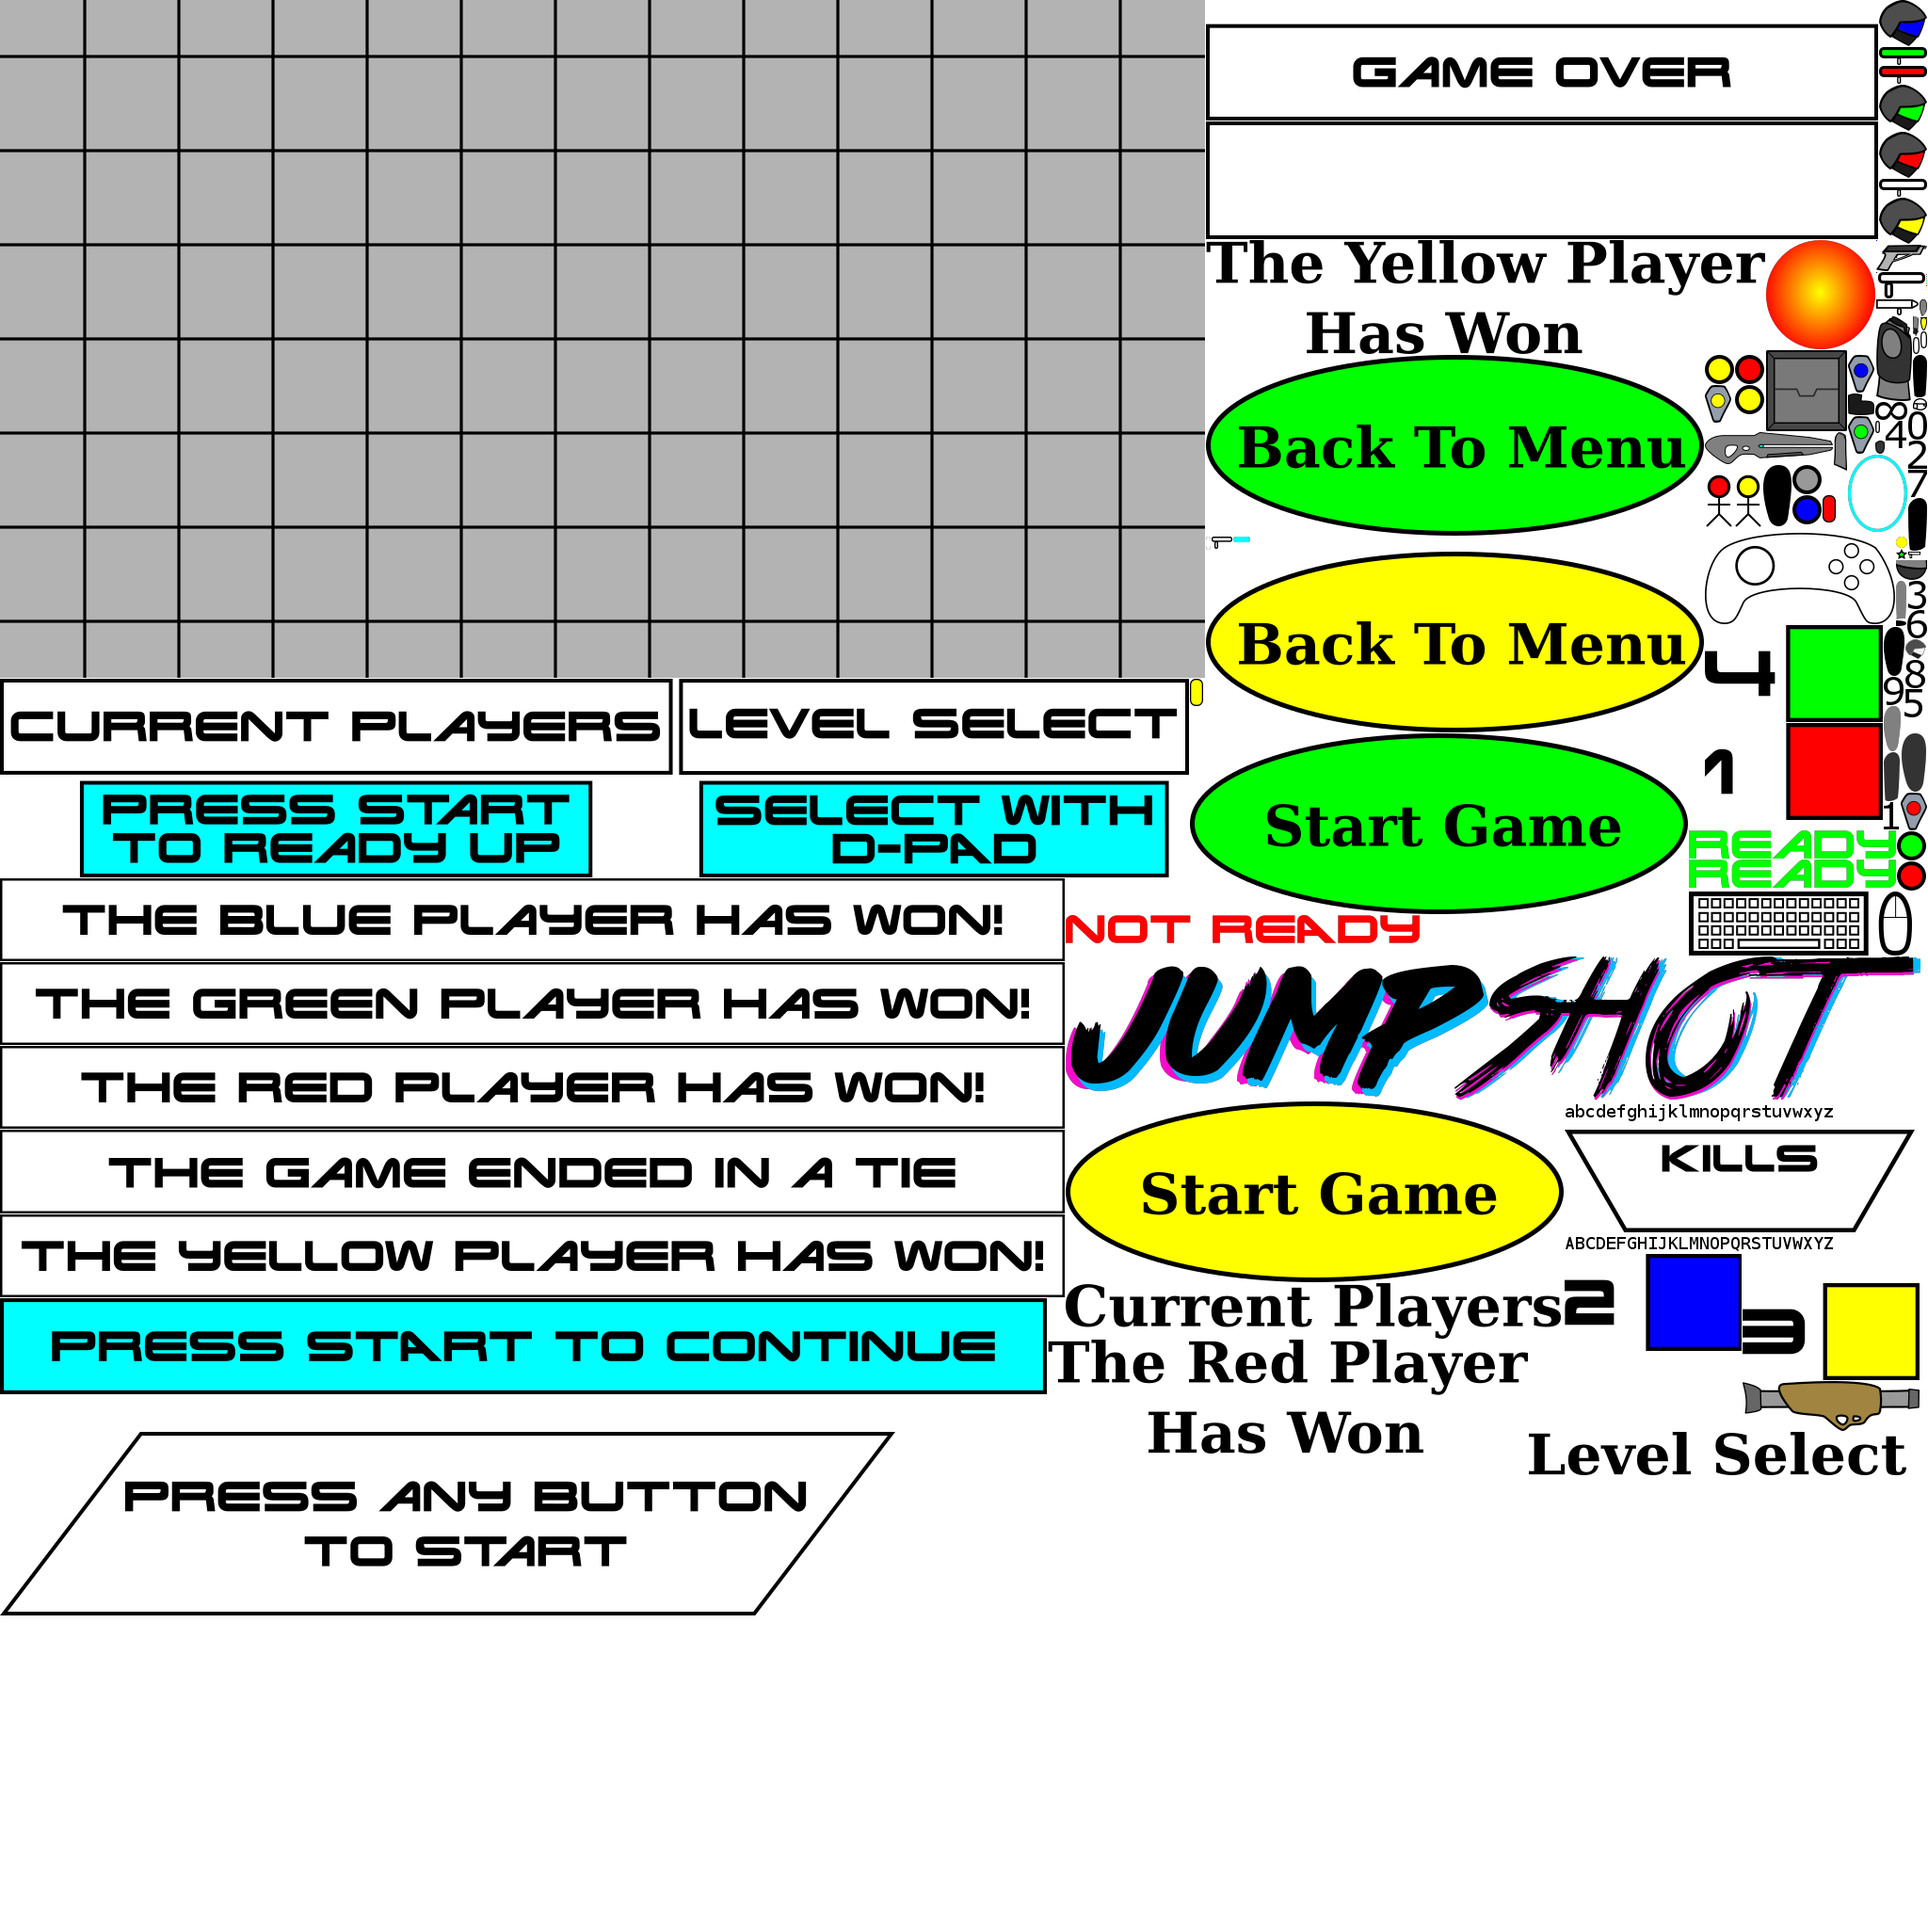
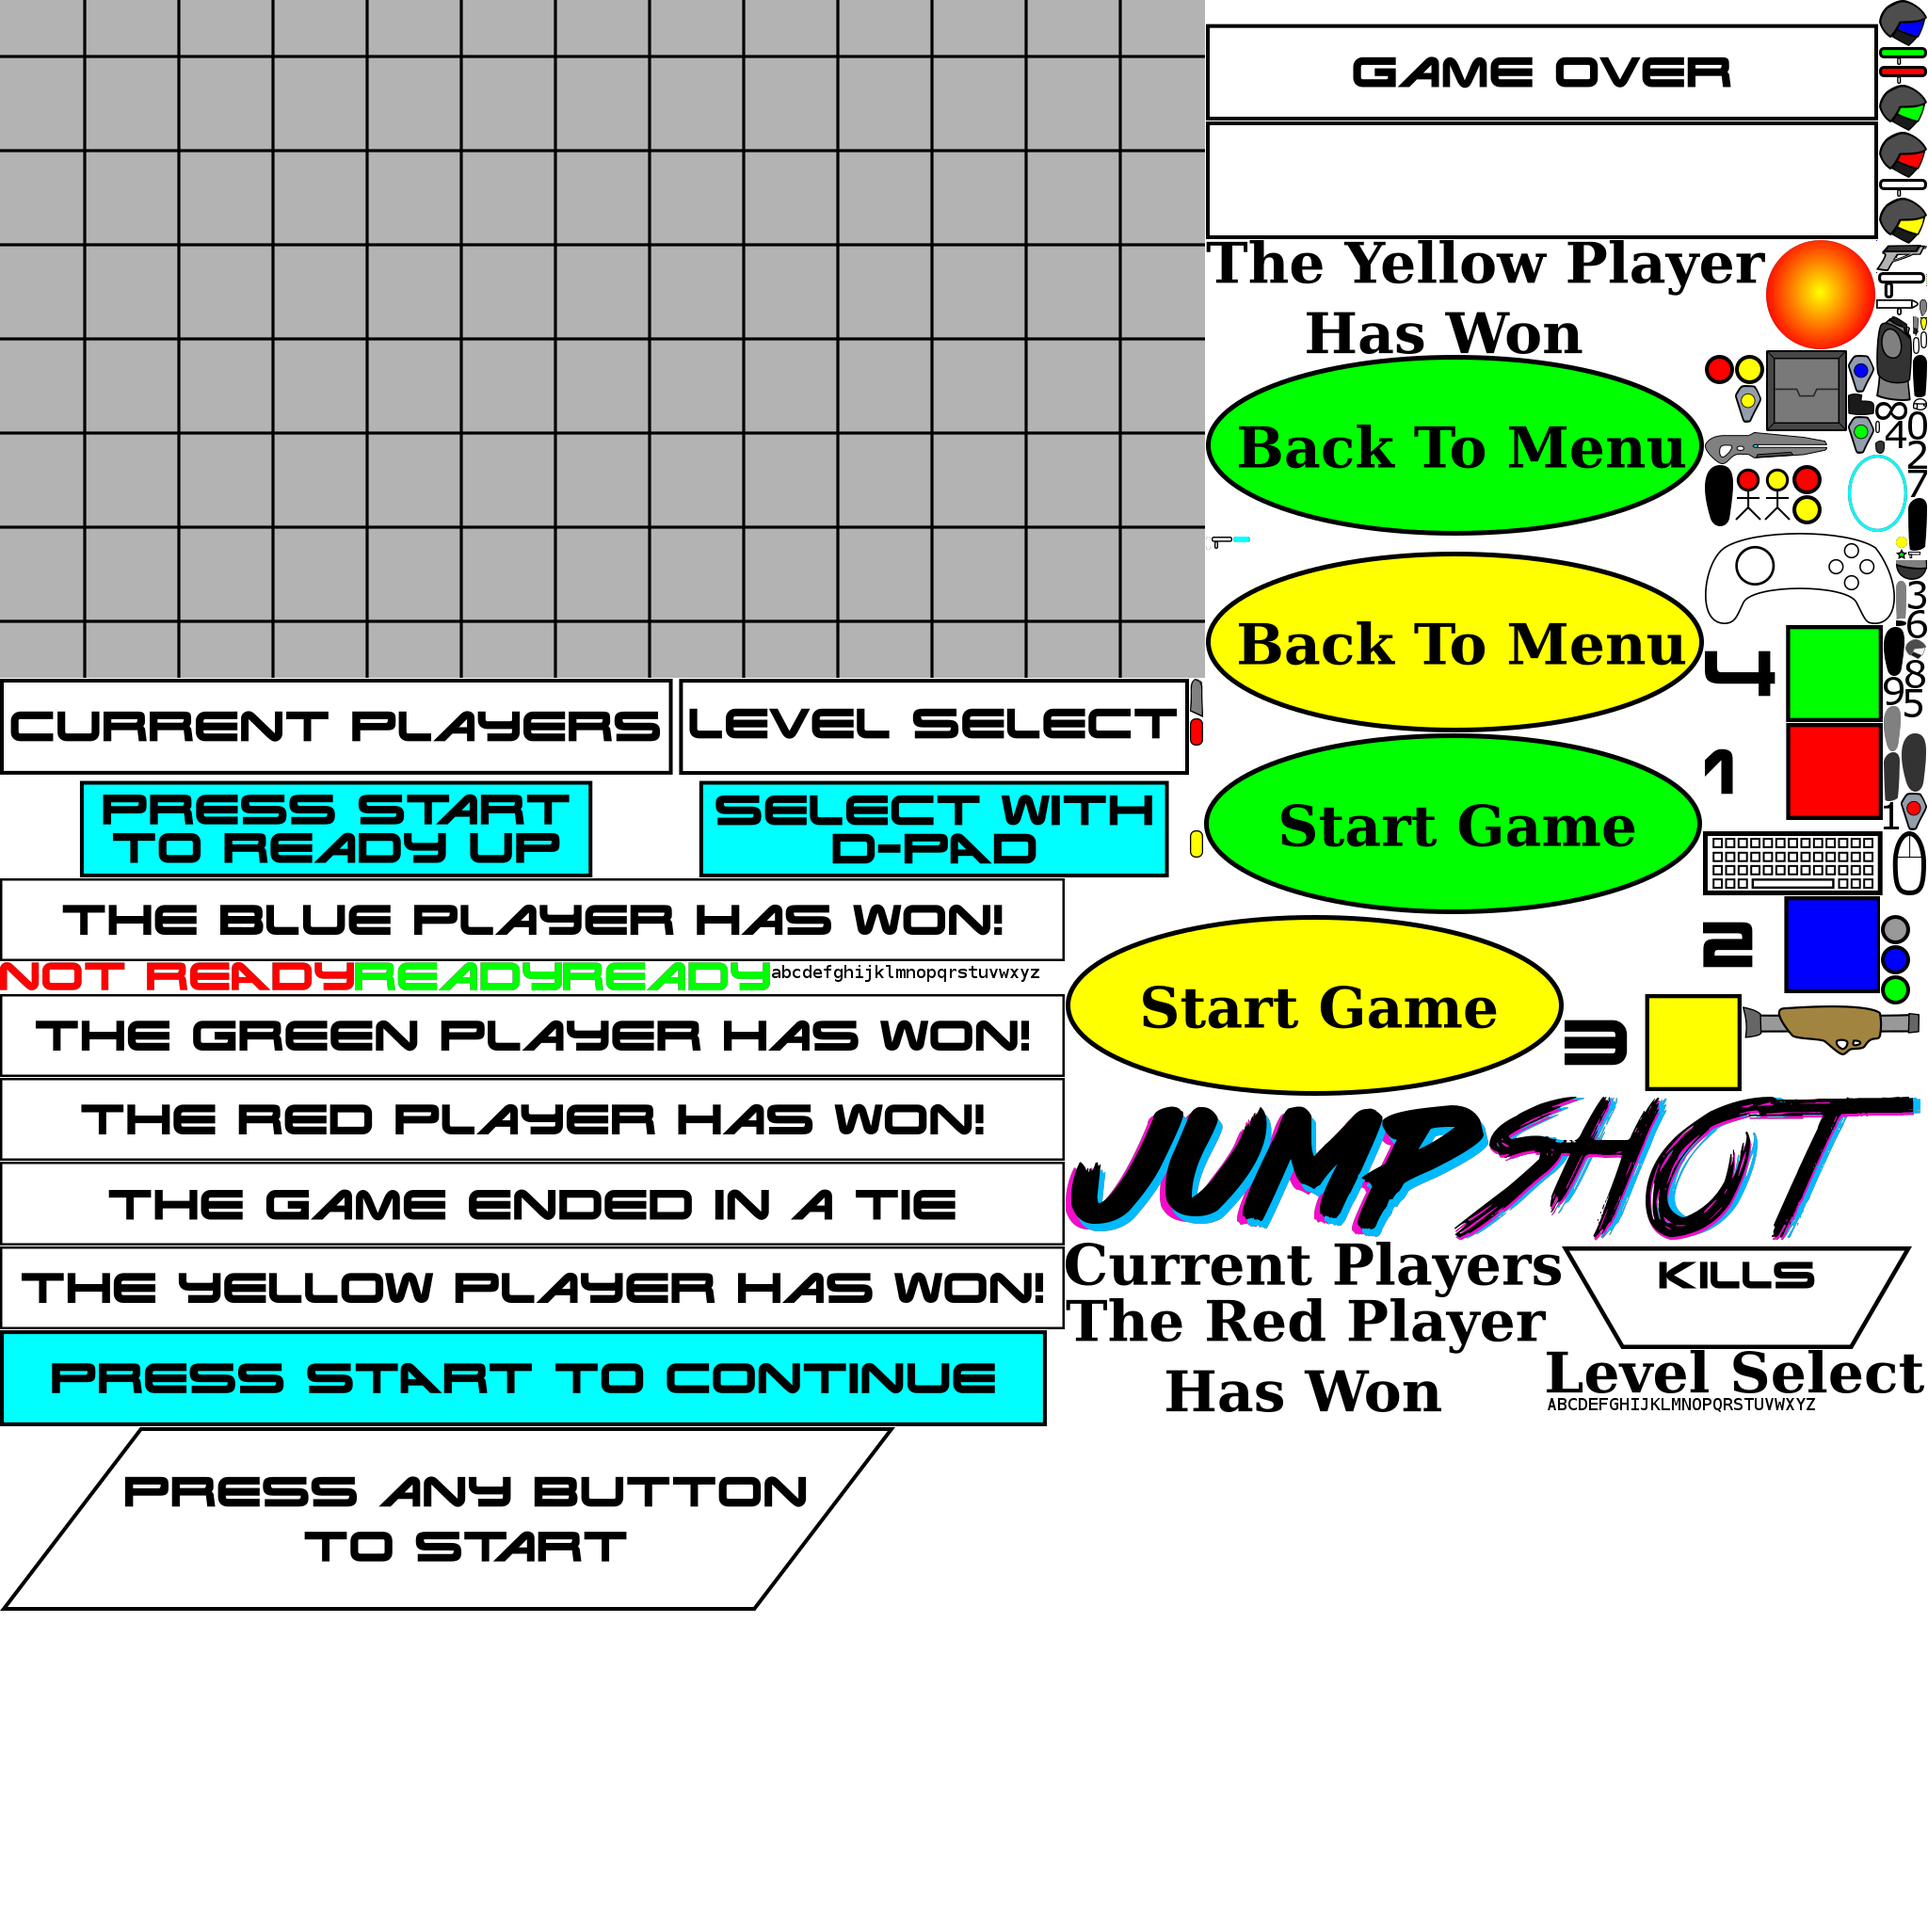
weapon holding fixed a touch, bullets made smaller

diff --git a/src/player.cpp b/src/player.cpp
@@ -24,7 +24,7 @@ const double head_y_offset = -97 * ASSET_SCALE;
 
 const double shoulder_x_offset = -2 * ASSET_SCALE;
 const double shoulder_y_offset = -55 * ASSET_SCALE;
-const double shoulder_angle_offset = M_PI / 2 + - 0.2;
+const double shoulder_angle_offset = 0;//M_PI / 2 + - 0.2;
 const double shoulder_angle_coef = 1.0;
 
 const double torso_y_offset = -40 * ASSET_SCALE;
@@ -251,15 +251,15 @@ void Player::render(RenderList& list) const {
         list.add_rect("shield", shield_rect.offset(0, -2));
     }
 
-    if (!state.gun->in_front()) {
-        state.gun->render(list, scaled_gun_angle);
-    }
-
     //BACK LEG
     draw_leg(0, list, interpolated);
 
     //BACK ARM
     draw_arm(1, list, arms);
+
+    if (!state.gun->in_front()) {
+        state.gun->render(list, scaled_gun_angle);
+    }
 
     //TODO revisit the crotch, it's not visible RN and not worth tweaking
     //CROTCH

diff --git a/src/weapons/pierce.cpp b/src/weapons/pierce.cpp
@@ -10,7 +10,7 @@ double Pierce::gun_rotation_y() const {
 }
 
 double Pierce::gun_offset_x() const {
-    return 10;
+    return 2;
 }
 
 double Pierce::gun_offset_y() const {
@@ -30,23 +30,23 @@ const char* Pierce::gun_image_name() const {
 }
 
 bool Pierce::in_front() const {
-    return false;
+    return true;
 }
 
 double Pierce::grip1_dx() const {
-    return gun_offset_x() + 12;
+    return gun_offset_x() + 11;
 }
 
 double Pierce::grip1_dy() const {
-    return gun_offset_y() + 12;
+    return gun_offset_y() + 9;
 }
 
 double Pierce::grip2_dx() const {
-    return gun_offset_x() + 12;
+    return gun_offset_x() + 23;
 }
 
 double Pierce::grip2_dy() const {
-    return gun_offset_y() + 14;
+    return gun_offset_y() + 11;
 }
 
 std::unique_ptr<Bullet> Pierce::create_initial_bullet() const {

diff --git a/src/weapons/rocket.cpp b/src/weapons/rocket.cpp
@@ -10,11 +10,11 @@ double Rocket::gun_rotation_y() const {
 }
 
 double Rocket::gun_offset_x() const {
-    return -30;
+    return -25;
 }
 
 double Rocket::gun_offset_y() const {
-    return -15;
+    return -23;
 }
 
 double Rocket::barrel_offset_x() const {
@@ -34,19 +34,19 @@ bool Rocket::in_front() const {
 }
 
 double Rocket::grip1_dx() const {
-    return gun_offset_x() + 50;
+    return gun_offset_x() + 45;
 }
 
 double Rocket::grip1_dy() const {
-    return gun_offset_y() + 15;
+    return gun_offset_y() + 20;
 }
 
 double Rocket::grip2_dx() const {
-    return gun_offset_x() + 40;
+    return gun_offset_x() + 35;
 }
 
 double Rocket::grip2_dy() const {
-    return gun_offset_y() + 10;
+    return gun_offset_y() + 2;
 }
 
 std::unique_ptr<Bullet> Rocket::create_initial_bullet() const {

diff --git a/src/weapons/pistol.cpp b/src/weapons/pistol.cpp
@@ -10,11 +10,11 @@ double Pistol::gun_rotation_y() const {
 }
 
 double Pistol::gun_offset_x() const {
-    return 10;
+    return 20;
 }
 
 double Pistol::gun_offset_y() const {
-    return -10;
+    return -7;
 }
 
 double Pistol::barrel_offset_x() const {
@@ -34,19 +34,19 @@ bool Pistol::in_front() const {
 }
 
 double Pistol::grip1_dx() const {
-    return gun_offset_x() + 2;
+    return gun_offset_x() + 4;
 }
 
 double Pistol::grip1_dy() const {
-    return gun_offset_y() + 3;
+    return gun_offset_y() + 7;
 }
 
 double Pistol::grip2_dx() const {
-    return gun_offset_x() + 0;
+    return gun_offset_x() + 2;
 }
 
 double Pistol::grip2_dy() const {
-    return gun_offset_y() + 0;
+    return gun_offset_y() + 11;
 }
 
 std::unique_ptr<Bullet> Pistol::create_initial_bullet() const {

diff --git a/src/gamescreen.cpp b/src/gamescreen.cpp
@@ -607,7 +607,7 @@ std::unique_ptr<Screen> GameScreen::update(const std::map<int, inputs>& all_joys
                 hit_something = true;
                 if (player.state.invincibility_ticks_left == 0) {
                     std::uniform_real_distribution<> number(0, 1);
-                    if (number(gen) < FIRE_TRANSMIT_PROBABILITY) {
+                    if (bullet->catch_on_fire() && number(gen) < FIRE_TRANSMIT_PROBABILITY) {
                         player.state.source_fire_player = bullet->player_owner;
                         player.state.ticks_fire_left = FIRE_LENGTH;
                     }

diff --git a/src/weapons/bullet.cpp b/src/weapons/bullet.cpp
@@ -1,4 +1,5 @@
 #include "bullet.h"
+#include "magic.h"
 
 Bullet::Bullet() : pos(0, 0, 6, 6) {}
 
@@ -10,8 +11,10 @@ void Bullet::render(RenderList& list) const {
     list.translate(pos.x, pos.y);
     list.rotate(angle);
 
-    Rectangle image = list.get_image_dimensions(bullet_image_name());
-    list.add_rect(bullet_image_name(), image);
+    list.add_scaled_image(bullet_image_name(), 0, 0, ASSET_SCALE);
+
+    //Rectangle image = list.get_image_dimensions(bullet_image_name());
+    //list.add_rect(bullet_image_name(), image);
 
     list.pop();
 }
